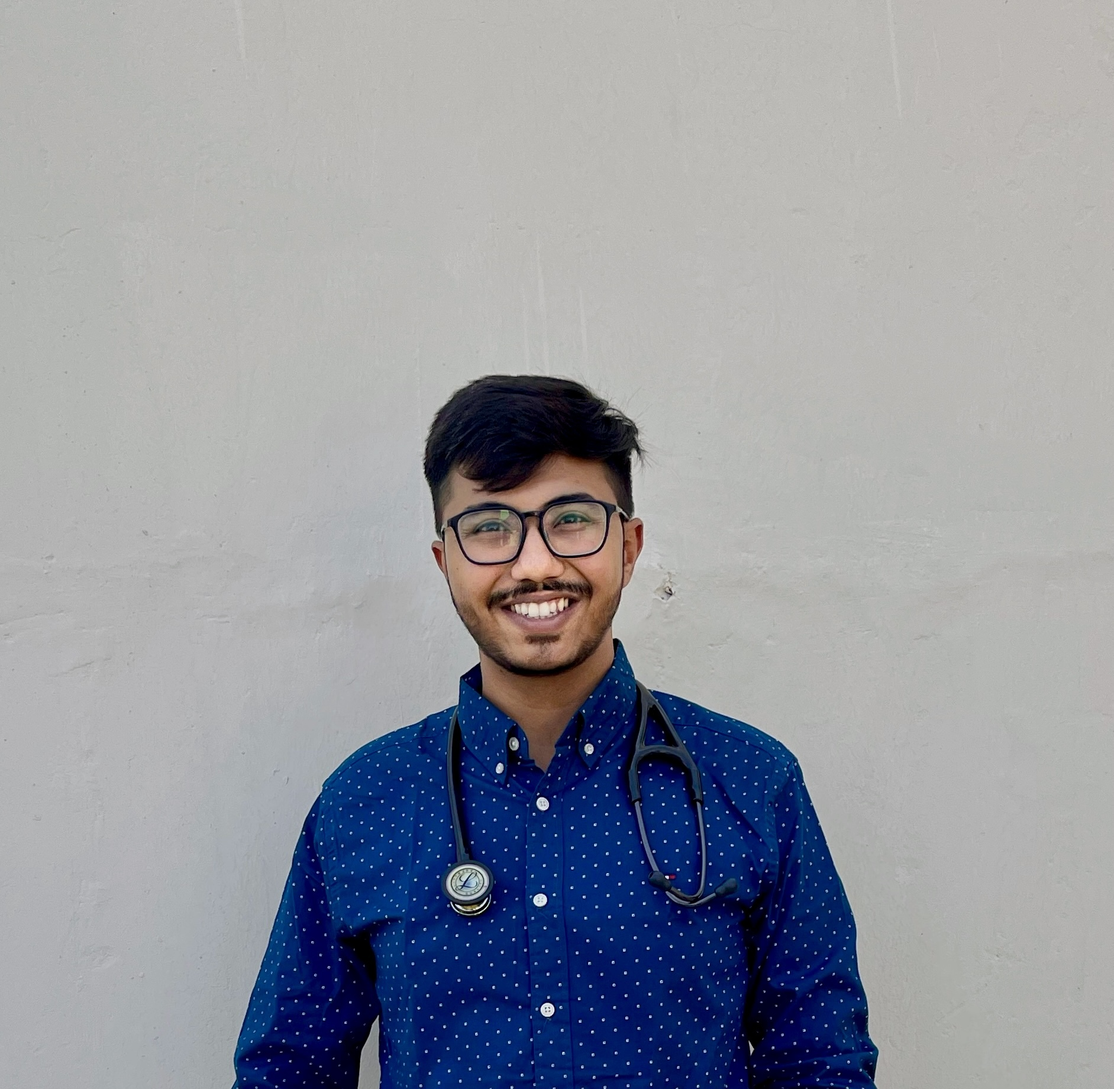
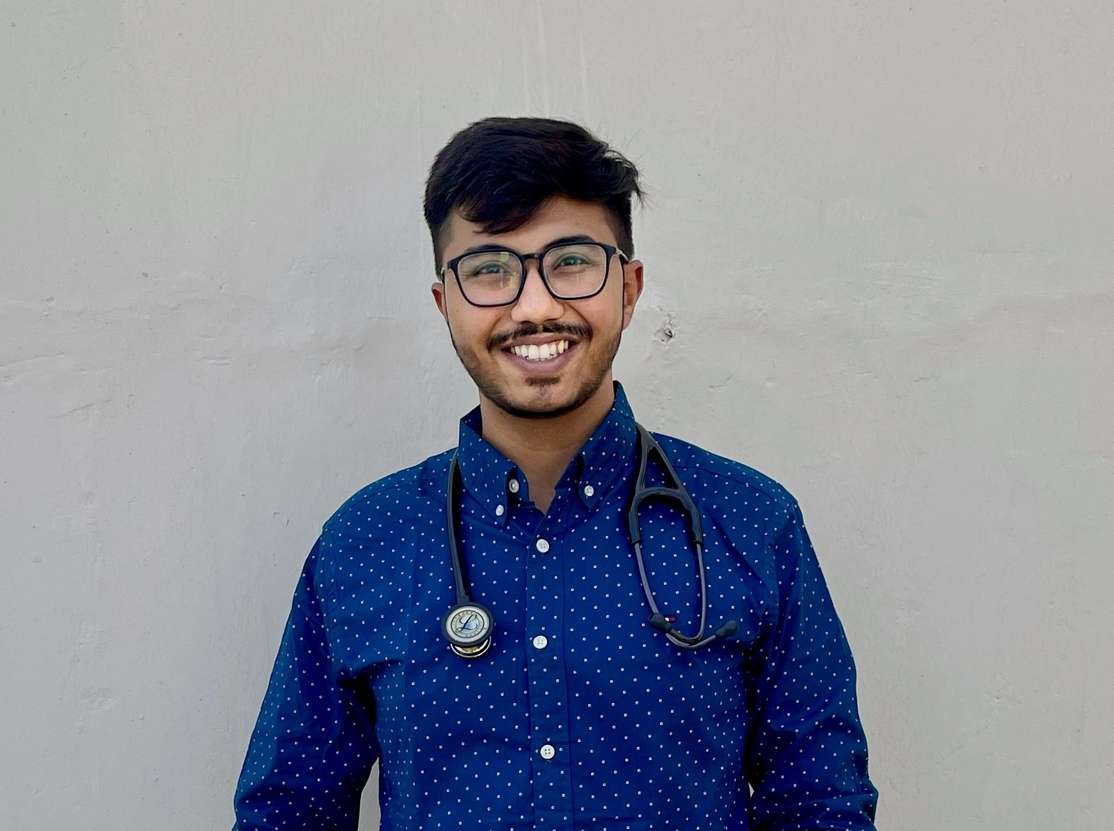
UPDATE IMAGE

Changed region(s): [[0.1848, 0.1224, 0.8008, 1.0], [0.5236, 0.9794, 0.5852, 1.0]]

diff --git a/components/AboutSection.tsx b/components/AboutSection.tsx
@@ -198,7 +198,7 @@ const teamMembers: TeamMember[] = [
     name: "Dr Krish",
     role: "Ground Operations Coordinator",
     bio: "Ground Operations Coordinator",
-    imageUrl: "/assets/Krish.jpg",
+    imageUrl: "/assets/Krish_1.jpg",
     specialty: "Ground Operations",
     category: "Ahd TaskForce",
     socialLinks: [],
@@ -207,7 +207,7 @@ const teamMembers: TeamMember[] = [
     name: "Dr Avdhesh",
     role: "Gujarat College Coordination",
     bio: "Gujarat College Coordination",
-    imageUrl: "/assets/Avdhesh.jpg",
+    imageUrl: "/assets/Avdhesh_1.jpg",
     specialty: "College Coordination",
     category: "Ahd TaskForce",
     socialLinks: [],
